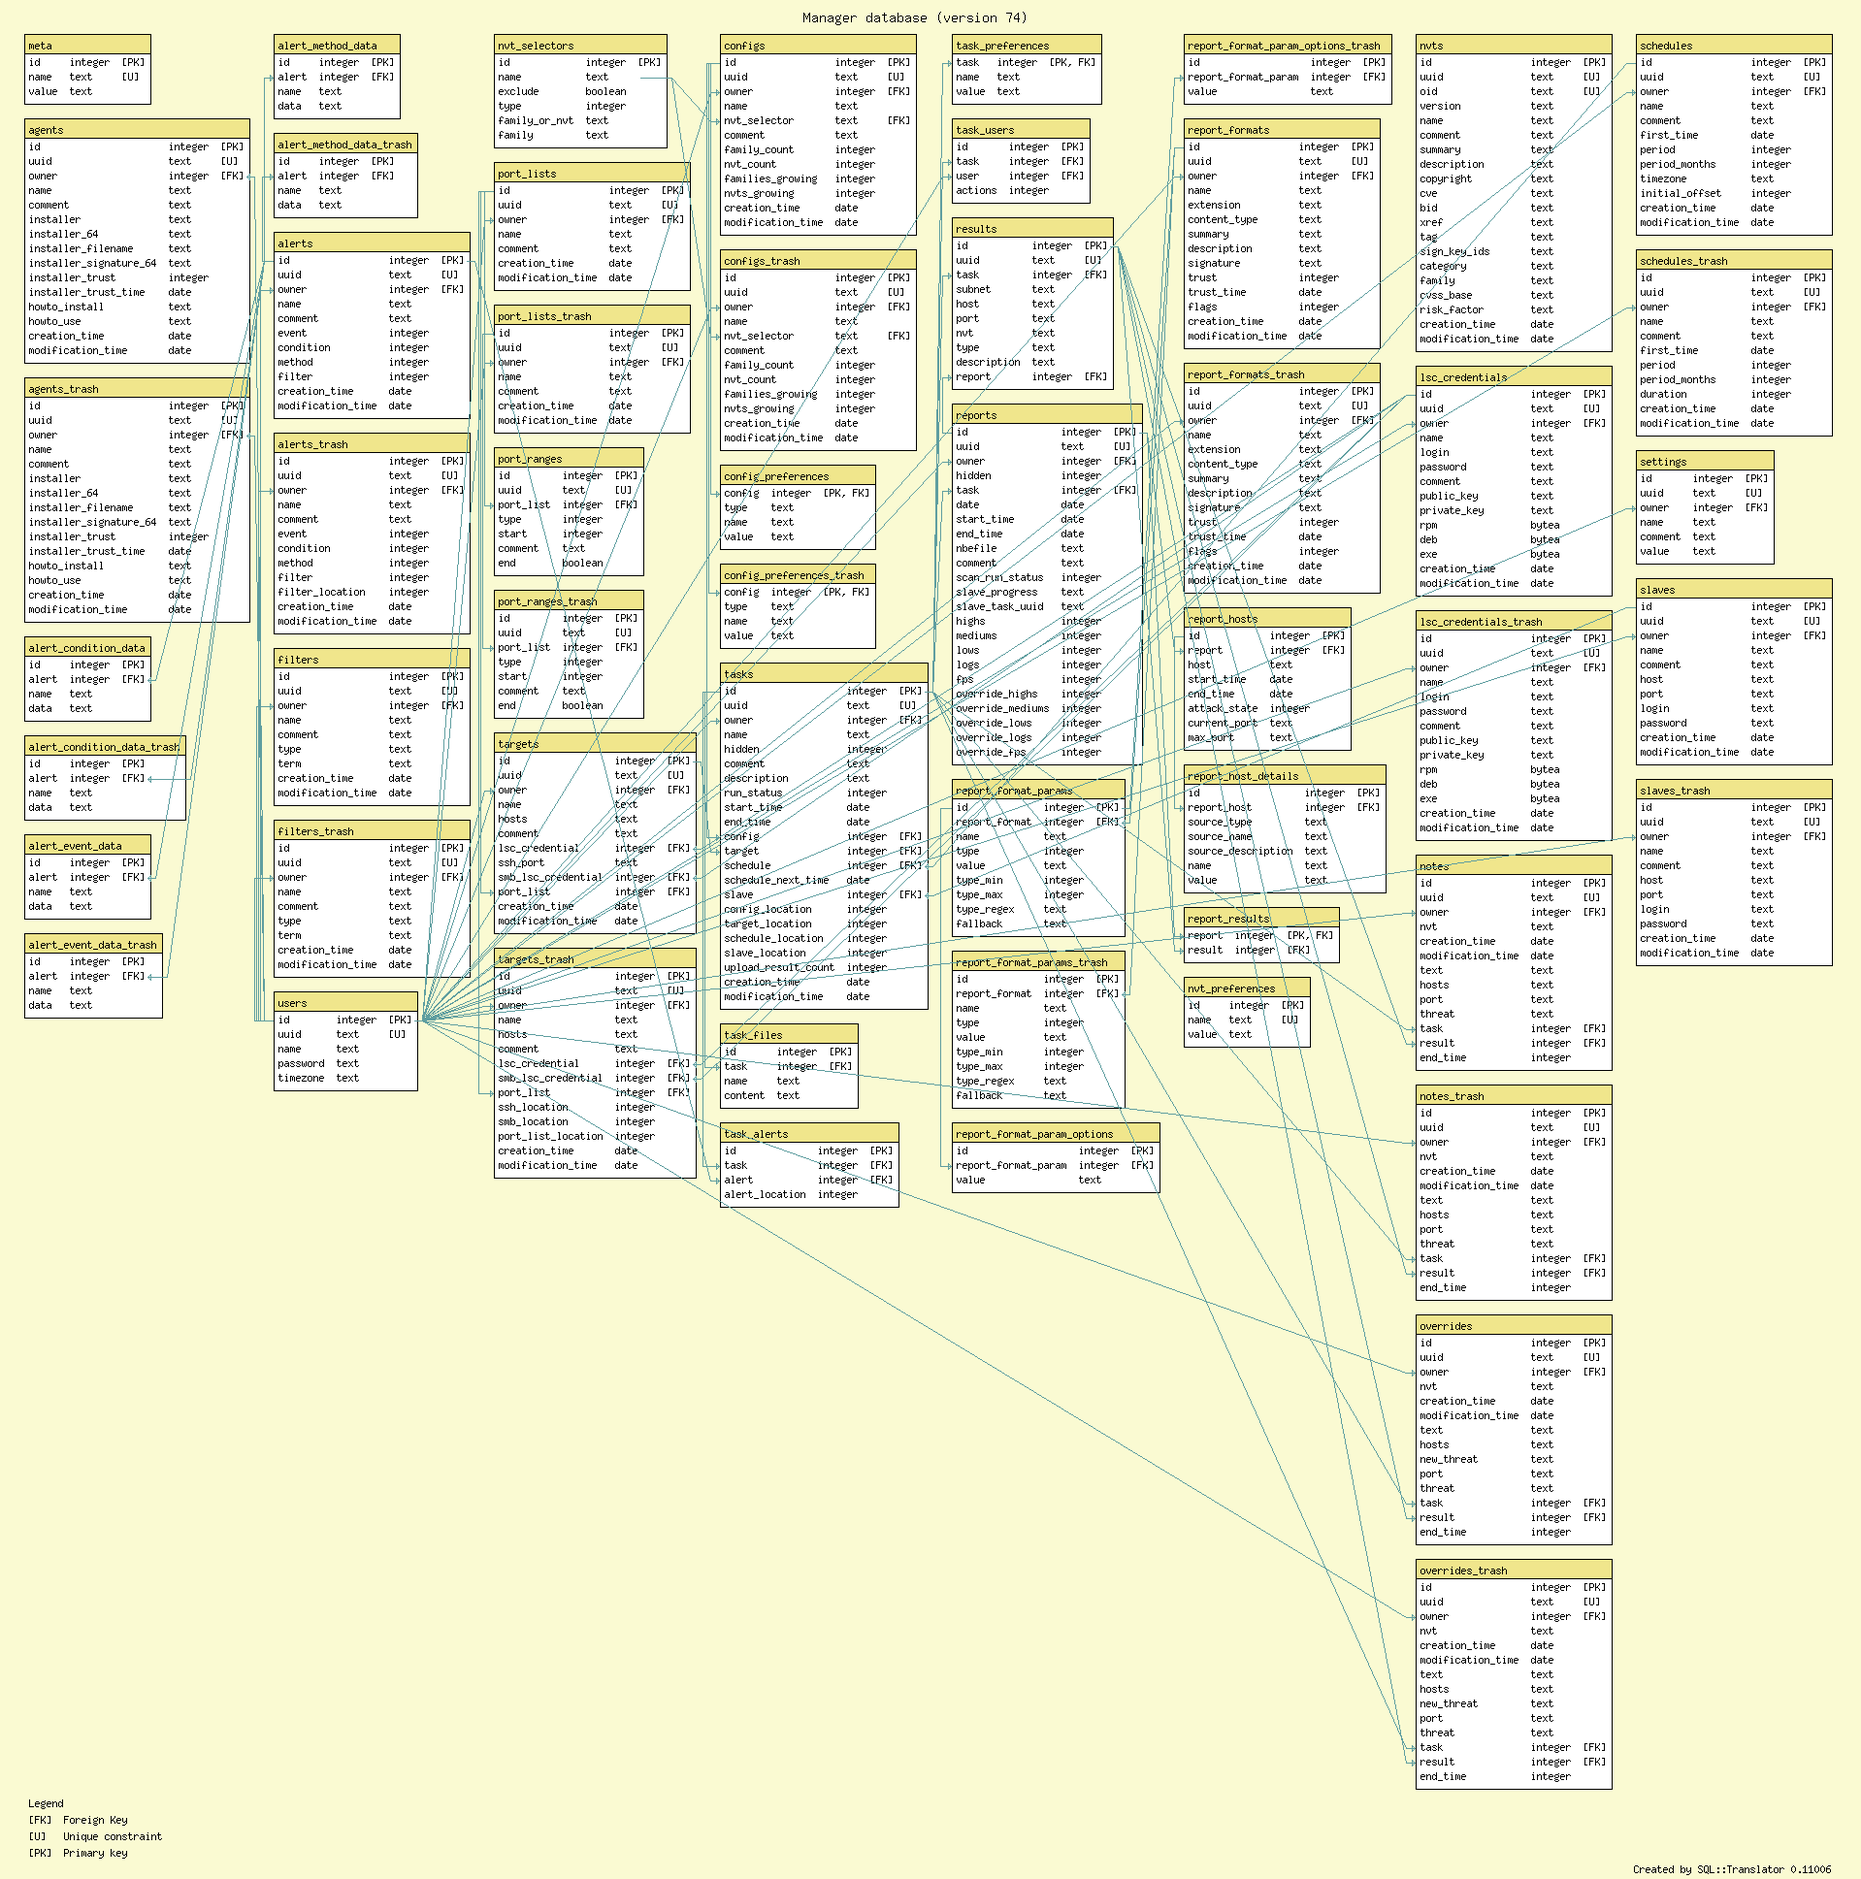
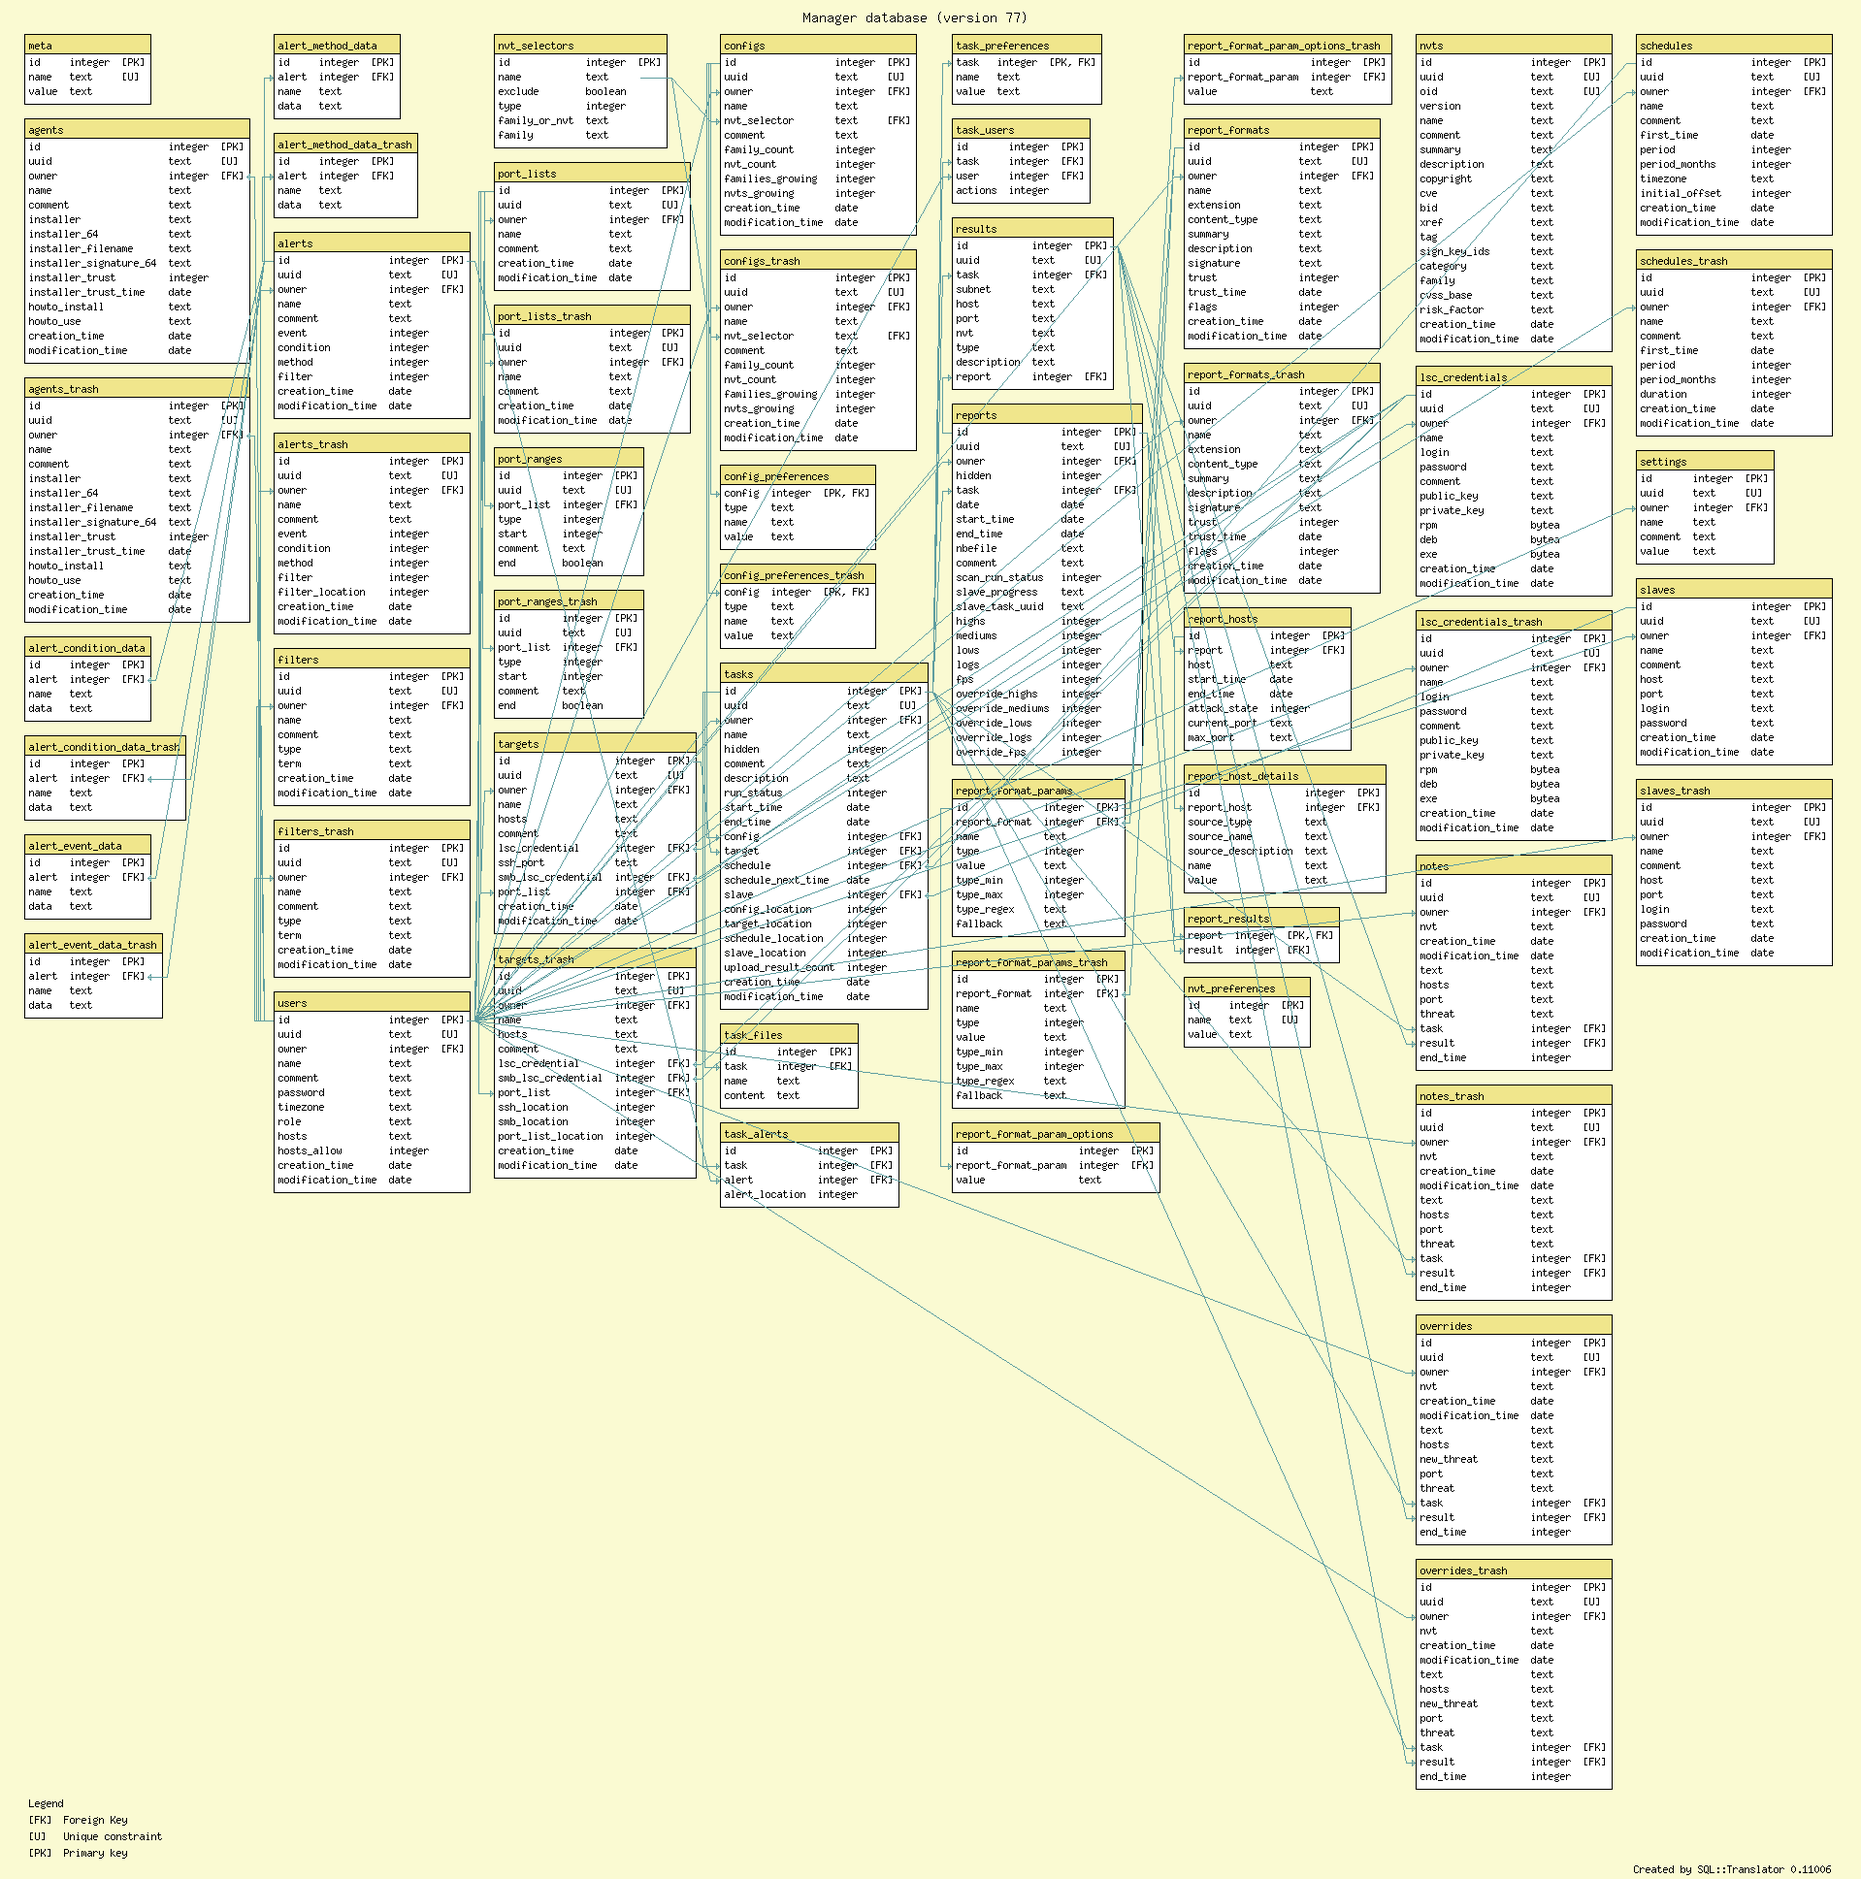
Add CREATE_USER/COPY for cloning, including new user columns.  Hence 	increase database version to 77.  Add database migration from version 76 	to 77.
* CMakeLists.txt (OPENVASMD_DATABASE_VERSION): Increase to 77.

	* src/manage_sql.c (user_t): Remove.  Now in manage.h.
	(copy_resource): Use underscore instead of space in name for users.
	(create_tables): Add standard columns.  Add placeholder columns for info
	stored on disk.
	(migrate_76_to_77): New function.
	(migrators): Add migrate_76_to_77.
	(copy_user, user_uuid): New functions.

	* src/manage.h: Add headers accordingly.
	(user_t): New type.  From manage_sql.c.

	* src/omp.c (create_user_data_t, client_state_t): Add copy field.
	(create_user_data_reset): Free copy.
	(omp_xml_handle_start_element, omp_xml_handle_end_element)
	(omp_xml_handle_text): Add COPY to CREATE_USER.

	* src/sql.c (sql_uniquify): Use underscore instead of space in name for
	users.

	* doc/db_postgres.sql (users): Add new columns.

	* doc/db.png: Update from source.

git-svn-id: svn+ssh://scm.wald.intevation.org/openvas/trunk/openvas-manager@15899 423fd1db-d629-0410-8442-d21db03e70f4

Changed region(s): [[0.123, 0.4646, 0.3384, 0.6505]]

diff --git a/src/manage_sql.c b/src/manage_sql.c
@@ -74,11 +74,6 @@
 /* Internal types and preprocessor definitions. */
 
 /**
- * @brief A user.
- */
-typedef long long int user_t;
-
-/**
  * @brief Database ROWID of 'Full and fast' config.
  */
 #define CONFIG_ID_FULL_AND_FAST 1
@@ -3262,8 +3257,10 @@ copy_resource (const char *type, const char *name, const char *comment,
   /* Copy the existing resource. */
 
   if (make_name_unique)
-    uniquify = g_strdup_printf ("uniquify ('%s', name, %llu, ' Clone')",
-                                type, owner);
+    uniquify = g_strdup_printf ("uniquify ('%s', name, %llu, '%cClone')",
+                                type,
+                                owner,
+                                strcmp (type, "user") ? ' ' : '_');
   else
     uniquify = g_strdup ("name");
   if (named && comment && strlen (comment))
@@ -3952,7 +3949,7 @@ create_tables ()
   sql ("CREATE TABLE IF NOT EXISTS task_alerts (id INTEGER PRIMARY KEY, task INTEGER, alert INTEGER, alert_location INTEGER);");
   sql ("CREATE TABLE IF NOT EXISTS task_preferences (id INTEGER PRIMARY KEY, task INTEGER, name, value);");
   sql ("CREATE TABLE IF NOT EXISTS tasks   (id INTEGER PRIMARY KEY, uuid, owner INTEGER, name, hidden INTEGER, time, comment, description, run_status INTEGER, start_time, end_time, config INTEGER, target INTEGER, schedule INTEGER, schedule_next_time, slave INTEGER, config_location INTEGER, target_location INTEGER, schedule_location INTEGER, slave_location INTEGER, upload_result_count INTEGER, creation_time, modification_time);");
-  sql ("CREATE TABLE IF NOT EXISTS users   (id INTEGER PRIMARY KEY, uuid UNIQUE, name, password, timezone);");
+  sql ("CREATE TABLE IF NOT EXISTS users   (id INTEGER PRIMARY KEY, uuid UNIQUE, owner INTEGER, name, comment, password, timezone, role, hosts, hosts_allow, creation_time, modification_time);");
 
   sql ("ANALYZE;");
 }
@@ -9303,6 +9300,54 @@ migrate_75_to_76 ()
 }
 
 /**
+ * @brief Migrate the database from version 76 to version 77.
+ *
+ * @return 0 success, -1 error.
+ */
+static int
+migrate_76_to_77 ()
+{
+  sql ("BEGIN EXCLUSIVE;");
+
+  /* Ensure that the database is currently version 76. */
+
+  if (manage_db_version () != 76)
+    {
+      sql ("ROLLBACK;");
+      return -1;
+    }
+
+  /* Update the database. */
+
+  /* Users got standard columns, and columns to mirror info stored on disk. */
+
+  sql ("ALTER TABLE users ADD COLUMN owner;");
+  sql ("ALTER TABLE users ADD COLUMN comment;");
+  sql ("ALTER TABLE users ADD COLUMN creation_time;");
+  sql ("ALTER TABLE users ADD COLUMN modification_time;");
+  sql ("ALTER TABLE users ADD COLUMN role;");
+  sql ("ALTER TABLE users ADD COLUMN hosts;");
+  sql ("ALTER TABLE users ADD COLUMN hosts_allow;");
+  sql ("UPDATE users SET"
+       " owner = NULL,"
+       " comment = '',"
+       " creation_time = 0,"
+       " modification_time = 0,"
+       /* These are temporary, and only used for clone. */
+       " role = 'User',"
+       " hosts = '',"
+       " hosts_allow = 2;");
+
+  /* Set the database version to 77. */
+
+  set_db_version (77);
+
+  sql ("COMMIT;");
+
+  return 0;
+}
+
+/**
  * @brief Array of database version migrators.
  */
 static migrator_t database_migrators[]
@@ -9383,6 +9428,7 @@ static migrator_t database_migrators[]
     {74, migrate_73_to_74},
     {75, migrate_74_to_75},
     {76, migrate_75_to_76},
+    {77, migrate_76_to_77},
     /* End marker. */
     {-1, NULL}};
 
@@ -49514,6 +49560,78 @@ openvas_admin_add_user (const gchar * name, const gchar * password,
 
   g_warning ("Could not access %s!", directory);
   return -1;
+}
+
+/**
+ * @brief Create a user from an existing user.
+ *
+ * @param[in]  name      Name of new user.  NULL to copy from existing.
+ * @param[in]  comment   Comment on new user.  NULL to copy from existing.
+ * @param[in]  user_id   UUID of existing user.
+ * @param[out] new_user  New user.
+ *
+ * @return 0 success, 1 user exists already, 2 failed to find existing
+ *         user, -1 error.
+ */
+int
+copy_user (const char* name, const char* comment, const char *user_id,
+           user_t* new_user)
+{
+  user_t user;
+  int ret, hosts_allow;
+  gchar *role, *hosts, *new_name;
+
+  /* TODO There are holes here, which will go away when users are only in db. */
+
+  ret = copy_resource ("user", name, comment, user_id,
+                       "password, timezone, role, hosts, hosts_allow",
+                       1, &user);
+  if (ret)
+    return ret;
+
+  if (name)
+    new_name = g_strdup (name);
+  else
+    new_name = sql_string (0, 0,
+                           "SELECT name FROM users WHERE ROWID = %llu", user);
+  role = sql_string (0, 0, "SELECT role FROM users WHERE ROWID = %llu", user);
+  hosts = sql_string (0, 0, "SELECT hosts FROM users WHERE ROWID = %llu", user);
+  hosts_allow = sql_int (0, 0,
+                         "SELECT hosts_allow FROM users WHERE ROWID = %llu",
+                         user);
+
+  ret = openvas_admin_add_user (new_name, "changeme", role, hosts, hosts_allow,
+                                OPENVAS_USERS_DIR, NULL, NULL, NULL, NULL);
+
+  // FIX handle return
+
+  // FIX add groups
+
+  if (new_user)
+    *new_user = user;
+
+  g_free (new_name);
+  g_free (role);
+  g_free (hosts);
+
+  return ret;
+}
+
+/**
+ * @brief Return the UUID of a user.
+ *
+ * Warning: this is only safe for users that are known to be in the db.
+ *
+ * @param[in]  user  User.
+ *
+ * @return Newly allocated UUID if available, else NULL.
+ */
+char*
+user_uuid (user_t user)
+{
+  return sql_string (0, 0,
+                     "SELECT uuid FROM users WHERE ROWID = %llu;",
+                     user);
 }
 
 /**

diff --git a/src/omp.c b/src/omp.c
@@ -1554,8 +1554,9 @@ create_task_data_reset (create_task_data_t *data)
 
 typedef struct
 {
+  char *copy;             ///< UUID of resource to copy.
   int sort_order;
-  array_t *groups;      ///< IDs of groups.
+  array_t *groups;        ///< IDs of groups.
   char *hosts;
   int hosts_allow;
   char *name;
@@ -1573,6 +1574,7 @@ typedef struct
 static void
 create_user_data_reset (create_user_data_t * data)
 {
+  g_free (data->copy);
   array_free (data->groups);
   g_free (data->name);
   g_free (data->password);
@@ -4437,6 +4439,7 @@ typedef enum
   CLIENT_CREATE_TASK_SLAVE,
   CLIENT_CREATE_TASK_TARGET,
   CLIENT_CREATE_USER,
+  CLIENT_CREATE_USER_COPY,
   CLIENT_CREATE_USER_GROUPS,
   CLIENT_CREATE_USER_GROUPS_GROUP,
   CLIENT_CREATE_USER_HOSTS,
@@ -7893,7 +7896,9 @@ omp_xml_handle_start_element (/*@unused@*/ GMarkupParseContext* context,
         ELSE_ERROR ("create_task");
 
       case CLIENT_CREATE_USER:
-        if (strcasecmp ("GROUPS", element_name) == 0)
+        if (strcasecmp ("COPY", element_name) == 0)
+          set_client_state (CLIENT_CREATE_USER_COPY);
+        else if (strcasecmp ("GROUPS", element_name) == 0)
           set_client_state (CLIENT_CREATE_USER_GROUPS);
         else if (strcasecmp ("HOSTS", element_name) == 0)
           {
@@ -16971,10 +16976,61 @@ omp_xml_handle_end_element (/*@unused@*/ GMarkupParseContext* context,
         {
           gchar *errdesc;
           gchar *fail_group_id;
+          user_t new_user;
 
           assert (strcasecmp ("CREATE_USER", element_name) == 0);
 
-          if (create_user_data->name == NULL
+          errdesc = NULL;
+          if (create_user_data->copy)
+            switch (copy_user (create_user_data->name,
+                               NULL,
+                               create_user_data->copy,
+                               &new_user))
+              {
+                case 0:
+                  {
+                    char *uuid;
+                    uuid = user_uuid (new_user);
+                    SENDF_TO_CLIENT_OR_FAIL (XML_OK_CREATED_ID ("create_user"),
+                                             uuid);
+                    g_log ("event user", G_LOG_LEVEL_MESSAGE,
+                           "User %s has been created", uuid);
+                    free (uuid);
+                    break;
+                  }
+                case 1:
+                  SEND_TO_CLIENT_OR_FAIL
+                   (XML_ERROR_SYNTAX ("create_user",
+                                      "User exists already"));
+                  g_log ("event user", G_LOG_LEVEL_MESSAGE,
+                         "User could not be created");
+                  break;
+                case 2:
+                  if (send_find_error_to_client ("create_user",
+                                                 "user",
+                                                 create_user_data->copy,
+                                                 write_to_client,
+                                                 write_to_client_data))
+                    {
+                      error_send_to_client (error);
+                      return;
+                    }
+                  g_log ("event user", G_LOG_LEVEL_MESSAGE,
+                         "User could not be created");
+                  break;
+                case 99:
+                  SEND_TO_CLIENT_OR_FAIL
+                   (XML_ERROR_SYNTAX ("create_user",
+                                      "Permission denied"));
+                  break;
+                case -1:
+                  SEND_TO_CLIENT_OR_FAIL
+                   (XML_INTERNAL_ERROR ("create_user"));
+                  g_log ("event user", G_LOG_LEVEL_MESSAGE,
+                         "User could not be created");
+                  break;
+              }
+          else if (create_user_data->name == NULL
               || strlen (create_user_data->name) == 0)
             SEND_TO_CLIENT_OR_FAIL (XML_ERROR_SYNTAX
                                     ("create_user",
@@ -17031,6 +17087,7 @@ omp_xml_handle_end_element (/*@unused@*/ GMarkupParseContext* context,
           g_free (errdesc);
           break;
         }
+      CLOSE (CLIENT_CREATE_USER, COPY);
       CLOSE (CLIENT_CREATE_USER, GROUPS);
       CLOSE (CLIENT_CREATE_USER_GROUPS, GROUP);
       CLOSE (CLIENT_CREATE_USER, HOSTS);
@@ -22384,6 +22441,9 @@ omp_xml_handle_text (/*@unused@*/ GMarkupParseContext* context,
       APPEND (CLIENT_CREATE_TASK_PREFERENCES_PREFERENCE_VALUE,
               &create_task_data->preference->value);
 
+
+      APPEND (CLIENT_CREATE_USER_COPY,
+              &create_user_data->copy);
 
       APPEND (CLIENT_CREATE_USER_HOSTS,
               &create_user_data->hosts);

diff --git a/src/sql.c b/src/sql.c
@@ -708,7 +708,8 @@ sql_uniquify (sqlite3_context *context, int argc, sqlite3_value** argv)
     }
 
   number = 0;
-  candidate_name = g_strdup_printf ("%s%s %i", proposed_name, suffix,
+  candidate_name = g_strdup_printf ("%s%s%c%i", proposed_name, suffix,
+                                    strcmp ((char*) type, "user") ? ' ' : '_',
                                     ++number);
   quoted_candidate_name = sql_quote (candidate_name);
 
@@ -721,7 +722,10 @@ sql_uniquify (sqlite3_context *context, int argc, sqlite3_value** argv)
     {
       g_free (candidate_name);
       g_free (quoted_candidate_name);
-      candidate_name = g_strdup_printf ("%s%s %u", proposed_name, suffix,
+      candidate_name = g_strdup_printf ("%s%s%c%u", proposed_name, suffix,
+                                        strcmp ((char*) type, "user")
+                                          ? ' '
+                                          : '_',
                                         ++number);
       quoted_candidate_name = sql_quote (candidate_name);
     }

diff --git a/src/manage.h b/src/manage.h
@@ -201,6 +201,7 @@ typedef long long int port_range_t;
 typedef long long int lsc_credential_t;
 typedef long long int schedule_t;
 typedef long long int setting_t;
+typedef long long int user_t;
 
 #include <sqlite3.h>
 
@@ -2827,7 +2828,11 @@ manage_set_setting (const gchar *, const gchar *, const gchar *, gchar **);
 
 /* Users. */
 
-gchar *keyfile_to_auth_conf_settings_xml (const gchar *);
+int
+copy_user (const char*, const char*, const char*, user_t*);
+
+gchar *
+keyfile_to_auth_conf_settings_xml (const gchar *);
 
 GSList *
 openvas_admin_list_users (const gchar *, int, const gchar *, const gchar *);
@@ -2848,6 +2853,9 @@ int
 openvas_admin_add_user (const gchar *, const gchar *, const gchar *,
                         const gchar *, int, const gchar *, const array_t *,
                         array_t *, gchar **, gchar **);
+
+char*
+user_uuid (user_t);
 
 
 /* Wizards. */
